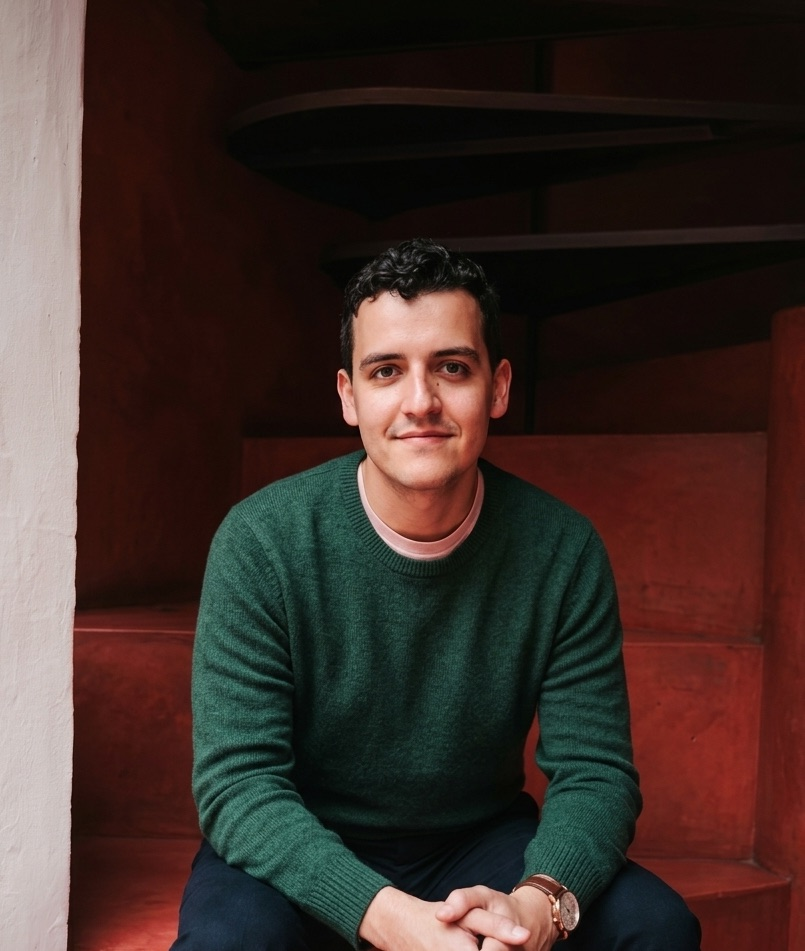
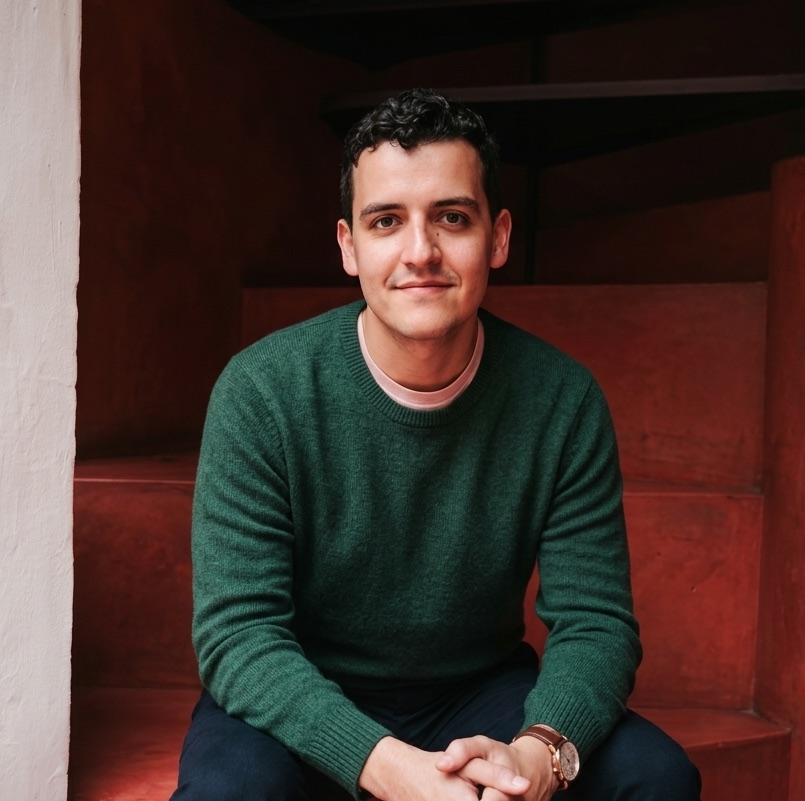
Recrop hero portrait; rows pop as cards on hover
- portrait.jpg recropped from the source (150px of headroom off the
  top, hands kept) — hero now shows face + torso, not stairwell
- Landing rows: full-bleed card pops on hover/focus (near-white surface,
  strong hairline, opacity-only); resting chevron at each row's right
  edge so clickability is visible before hover
- Practice teaser rows are now real buttons that open Practice — every
  row-shaped thing behaves like a row
- Removed the 8px preview rise on panel hover: it moved click targets
  under the cursor and caused missed clicks
- DESIGN.md §2 amended: no motion on panel hover; row card + chevron
  spec

diff --git a/index.html b/index.html
@@ -16,8 +16,8 @@
 <link rel="preconnect" href="https://fonts.googleapis.com">
 <link rel="preconnect" href="https://fonts.gstatic.com" crossorigin>
 <link rel="stylesheet" href="https://fonts.googleapis.com/css2?family=Lora&family=Geist:wght@300;400;500&family=Geist+Mono:wght@400;500&display=swap">
-<link rel="stylesheet" href="assets/tokens.css?v=mt6kz04e">
-<link rel="stylesheet" href="assets/site.css?v=mt6kz04e">
+<link rel="stylesheet" href="assets/tokens.css?v=mt6ngoyp">
+<link rel="stylesheet" href="assets/site.css?v=mt6ngoyp">
 <script type="application/ld+json">{"@context":"https://schema.org","@type":"Person","name":"Andrés F. Rodríguez","jobTitle":"Development economist","affiliation":{"@type":"Organization","name":"Stanford Impact Labs"},"email":"mailto:afrodrig@stanford.edu","url":"https://afrodrig.github.io/","image":"https://afrodrig.github.io/assets/portrait.jpg"}</script>
 </head>
 <body>
@@ -66,18 +66,22 @@ practice on the other; <mark class="band">this site is the bridge</mark>.</p>
       <button class="preview-paper" data-focus-paper="1" aria-label="Open Informal Taxation in Development Projects: The Role of Chiefs in Sierra Leone in the wheel">
         <span class="pp-title">Informal taxation &amp; chiefs</span>
         <span class="row-meta mono">INFORMAL TAXATION · TRADITIONAL CHIEFS · PUBLIC GOODS</span>
+        <span class="row-go" aria-hidden="true"><svg width="13" height="13" viewBox="0 0 16 16" fill="none" stroke="currentColor" stroke-width="1.5"><path d="M2 8h11M9 4l4 4-4 4"/></svg></span>
       </button>
       <button class="preview-paper" data-focus-paper="0" aria-label="Open Candidate Entry Into Local Government in the wheel">
         <span class="pp-title">Candidate entry into local government</span>
         <span class="row-meta mono">LOCAL ELECTIONS · CANDIDATE SELECTION · GOVERNANCE</span>
+        <span class="row-go" aria-hidden="true"><svg width="13" height="13" viewBox="0 0 16 16" fill="none" stroke="currentColor" stroke-width="1.5"><path d="M2 8h11M9 4l4 4-4 4"/></svg></span>
       </button>
       <button class="preview-paper" data-focus-paper="2" aria-label="Open Improving the Use of Zambia's Constituency Development Fund (CDF) in the wheel">
         <span class="pp-title">Zambia's Constituency Development Fund</span>
         <span class="row-meta mono">PARTICIPATORY DEVELOPMENT · LOCAL PUBLIC FINANCE</span>
+        <span class="row-go" aria-hidden="true"><svg width="13" height="13" viewBox="0 0 16 16" fill="none" stroke="currentColor" stroke-width="1.5"><path d="M2 8h11M9 4l4 4-4 4"/></svg></span>
       </button>
       <button class="preview-paper" data-focus-paper="3" aria-label="Open Too Much or Too Little Faith in Success? Experimental Evidence from Colombian Entrepreneurs in the wheel">
         <span class="pp-title">Entrepreneurs' beliefs about success</span>
         <span class="row-meta mono">BELIEFS · ENTREPRENEURSHIP · LAB-IN-THE-FIELD</span>
+        <span class="row-go" aria-hidden="true"><svg width="13" height="13" viewBox="0 0 16 16" fill="none" stroke="currentColor" stroke-width="1.5"><path d="M2 8h11M9 4l4 4-4 4"/></svg></span>
       </button>
     </div>
     <div class="ledger-fill" aria-hidden="true"></div>
@@ -282,22 +286,26 @@ poor households.</p></div></div></div>
     <div class="preview-block">
       <div class="preview-list">
         
-        <div class="preview-row">
+        <button class="preview-row" data-open="practice" aria-label="Open Practice">
           <span class="pr-title">Scoring a portfolio of research bets</span>
           <span class="row-meta mono">CASE STUDY</span>
-        </div>
-        <div class="preview-row">
+          <span class="row-go" aria-hidden="true"><svg width="13" height="13" viewBox="0 0 16 16" fill="none" stroke="currentColor" stroke-width="1.5"><path d="M2 8h11M9 4l4 4-4 4"/></svg></span>
+        </button>
+        <button class="preview-row" data-open="practice" aria-label="Open Practice">
           <span class="pr-title">Evaluation that gets used</span>
           <span class="row-meta mono">ESSAY</span>
-        </div>
-        <div class="preview-row">
+          <span class="row-go" aria-hidden="true"><svg width="13" height="13" viewBox="0 0 16 16" fill="none" stroke="currentColor" stroke-width="1.5"><path d="M2 8h11M9 4l4 4-4 4"/></svg></span>
+        </button>
+        <button class="preview-row" data-open="practice" aria-label="Open Practice">
           <span class="pr-title">A theory of change you can test</span>
           <span class="row-meta mono">ESSAY</span>
-        </div>
-        <div class="preview-row">
+          <span class="row-go" aria-hidden="true"><svg width="13" height="13" viewBox="0 0 16 16" fill="none" stroke="currentColor" stroke-width="1.5"><path d="M2 8h11M9 4l4 4-4 4"/></svg></span>
+        </button>
+        <button class="preview-row" data-open="practice" aria-label="Open Practice">
           <span class="pr-title">Portfolio learning dashboard</span>
           <span class="row-meta mono">INTERACTIVE DASHBOARD · IN PROGRESS</span>
-        </div>
+          <span class="row-go" aria-hidden="true"><svg width="13" height="13" viewBox="0 0 16 16" fill="none" stroke="currentColor" stroke-width="1.5"><path d="M2 8h11M9 4l4 4-4 4"/></svg></span>
+        </button>
       </div>
       <div class="ledger-fill" aria-hidden="true"></div>
     </div>
@@ -346,6 +354,6 @@ poor households.</p></div></div></div>
   </div>
 </section>
 </main>
-<script src="assets/site.js?v=mt6kz04e"></script>
+<script src="assets/site.js?v=mt6ngoyp"></script>
 </body>
 </html>

diff --git a/assets/site.css b/assets/site.css
@@ -97,26 +97,44 @@ mark.band {
 .preview-block {
   flex: 1; min-height: 0; margin-top: var(--s-24);
   display: flex; flex-direction: column;
-  transition: transform var(--dur-short) var(--ease-out);
 }
-.stage[data-state="landing"] .panel-section:hover .preview-block { transform: translateY(-8px); }
+/* no motion on panel hover — moving click targets caused missed clicks (2026-08-23) */
 .ledger-fill {
   flex: 1; min-height: 0;
   background: repeating-linear-gradient(180deg, var(--color-rule) 0 1px, transparent 1px 66px);
   -webkit-mask-image: linear-gradient(180deg, #000 0%, transparent 90%);
   mask-image: linear-gradient(180deg, #000 0%, transparent 90%);
 }
-/* row anatomy (both panels): title line + mono keyword/kind line */
+/* row anatomy (both panels): title line + mono keyword/kind line.
+   Every row is a button; hover/focus pops a full-bleed card behind it. */
 .preview-row, .preview-paper {
+  position: relative;
   display: flex; flex-direction: column; gap: 5px; width: 100%;
-  padding: 14px 0; border-top: 1px solid var(--color-rule);
-  text-align: left;
+  padding: 14px 24px 14px 0; border-top: 1px solid var(--color-rule);
+  text-align: left; cursor: pointer;
 }
+.preview-row > *, .preview-paper > * { position: relative; z-index: 1; }
+.preview-row::before, .preview-paper::before {
+  content: ""; position: absolute; inset: -1px -16px; z-index: 0;
+  background: var(--color-card); border: 1px solid var(--color-rule-strong);
+  opacity: 0; transition: opacity var(--dur-micro) var(--ease-out);
+  pointer-events: none;
+}
+.preview-row:hover::before, .preview-row:focus-visible::before,
+.preview-paper:hover::before, .preview-paper:focus-visible::before { opacity: 1; }
 .row-meta { font-size: 10px; letter-spacing: 0.1em; color: var(--color-muted); text-transform: uppercase; }
 .pr-title { font-size: 14.5px; font-weight: 400; color: var(--color-muted-2); }
+.preview-row:hover .pr-title { color: var(--color-ink); }
+.row-go {
+  position: absolute; right: 2px; top: 50%; transform: translateY(-50%);
+  display: inline-flex; color: var(--color-muted);
+  transition: color var(--dur-micro) var(--ease-out), transform var(--dur-micro) var(--ease-out);
+}
+.preview-row:hover .row-go, .preview-paper:hover .row-go {
+  color: var(--color-accent); transform: translateY(-50%) translateX(3px);
+}
 
 /* landing paper rows — each opens Research focused on that paper */
-.preview-paper { cursor: pointer; transition: color var(--dur-micro) var(--ease-out); }
 .pp-title { font-family: var(--font-display); font-size: 17px; line-height: 1.25; color: var(--color-ink); }
 .preview-paper:hover .pp-title { color: var(--color-accent); }
 .preview-paper:active .pp-title { color: var(--color-accent-deep); }

diff --git a/DESIGN.md b/DESIGN.md
@@ -44,9 +44,16 @@ web-CV content in `content/cv.yml` is parked for future use).
   kind label), and **blank ruled lines at the same rhythm fill the remaining height,
   fading out** — the panel reads as a ledger page being filled in. No fanned/stacked
   cards (replaced 2026-08-23 — the mixed card states read as inconsistent).
-- Hover on a section panel: background tints to `--color-panel-hover`, preview rises 8px,
-  the `ENTER →` arrow nudges right. The `ENTER →` button is **always visible** (amended
-  2026-08-23: hover-reveal hid the affordance — discoverability beats minimalism).
+- Hover on a section panel: background tints to `--color-panel-hover`; the `ENTER →`
+  arrow nudges right. The `ENTER →` button is **always visible** (amended 2026-08-23:
+  hover-reveal hid the affordance — discoverability beats minimalism). **Nothing moves
+  on panel hover** — the earlier 8px preview rise moved click targets under the cursor
+  and caused missed clicks (removed 2026-08-23).
+- Every preview row is a real button with a **resting chevron** at its right edge
+  (muted at rest — clickability is visible before hover). Hovering or focusing a row
+  pops a **full-bleed card** behind it (near-white surface, strong hairline border,
+  opacity-only) and turns the title + chevron accent; the chevron nudges right via
+  transform. Research rows open the Wheel at that paper; Practice rows open Practice.
 - The Research preview rows are INDIVIDUALLY clickable: each opens Research with the
   Wheel focused on that paper (hover: accent). The panel itself and ENTER open Research
   at the featured paper. Papers carry a `short:` display title so rows never truncate.
